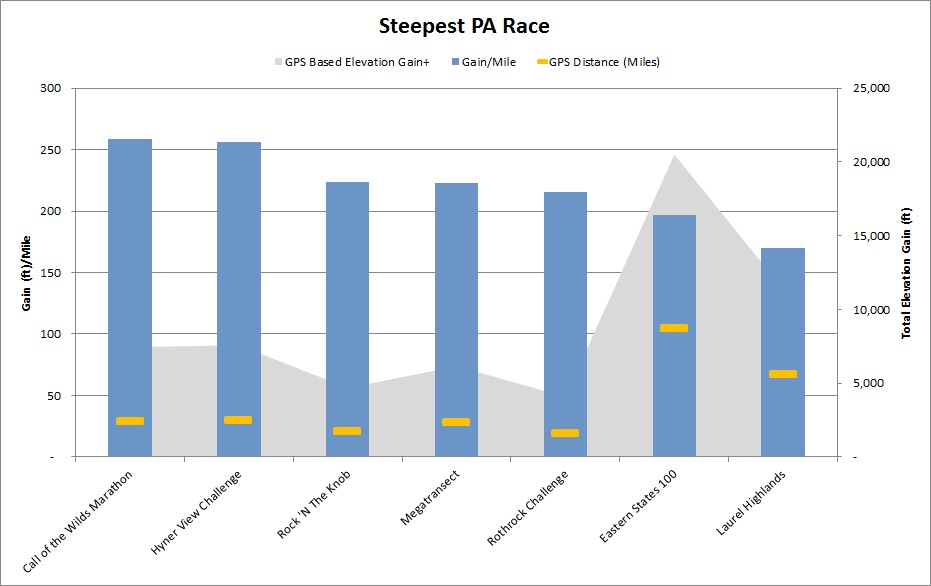
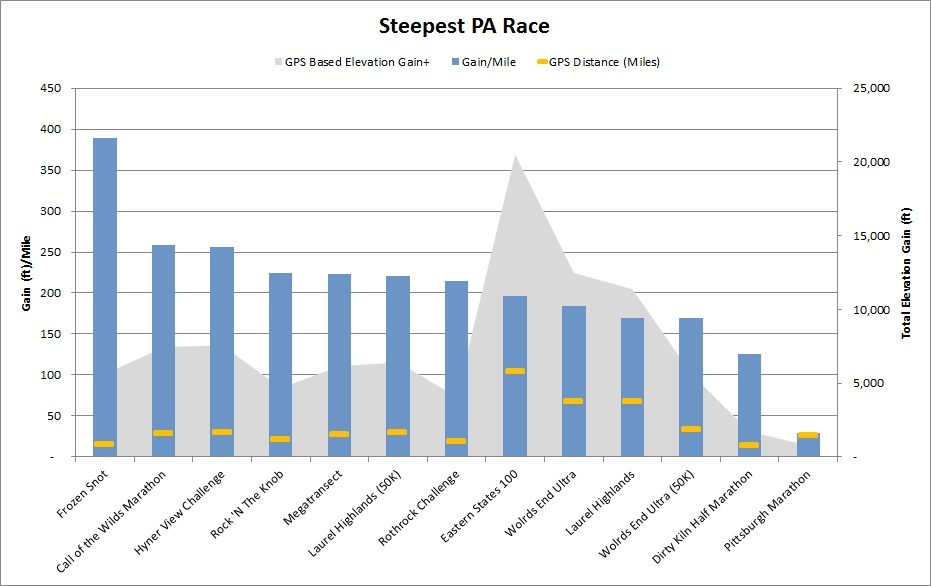
Updated SteepestPA Post

diff --git a/public/post/SteepestRacePA/index.html b/public/post/SteepestRacePA/index.html
@@ -145,7 +145,7 @@ I have attempted to answer a piece of that puzzle.</p>
 <h3 id="the-races-with-hills:e821d7f6a85bcd0c723ada71edb79d57">The Races With Hills</h3>
 
 <blockquote>
-<p><strong>It&rsquo;s a hill - get over it!</strong></p>
+<p><em>It&rsquo;s a hill - get over it!</em></p>
 </blockquote>
 
 <p>In my time here in Pennsylvania, I&rsquo;ve heard the names of different
@@ -157,7 +157,8 @@ estimated elevation gain, and even if it does, you can&rsquo;t always
 trust it (I&rsquo;m looking at you Rock&rsquo;N The Knob). You also can&rsquo;t trust the
 advertised miles - actually, nor the ruuners&hellip; well,
 especially the runners that like to challenge themselves and
-add extra off-course miles (I do this quite often&hellip; some people call it getting lost).</p>
+add extra off-course miles (I do this quite often&hellip; some people call it getting lost).
+To assist with accuracy, I gathered together GPS data for the different races.</p>
 
 <p>I put together a small list of &ldquo;challening&rdquo; races
 and pulled out their elevation gain in feet and divided
@@ -175,6 +176,17 @@ it by the total miles of the race, based on data recorded from racers.</p>
 <li>Rothrock Challenge</li>
 </ul>
 
+<p><em>ADDED</em></p>
+
+<ul>
+<li>Frozen Snot</li>
+<li>Laurel Highlands (50K)</li>
+<li>Worlds End Ultra</li>
+<li>Worlds End Ultra (50K)</li>
+<li>Dirty Kiln Half Marathon</li>
+<li>Pittsburgh Marathon</li>
+</ul>
+
 <p>Hopefully I can update/add to this list as I do more research and get more suggestions.</p>
 
 <h3 id="results:e821d7f6a85bcd0c723ada71edb79d57">Results</h3>
@@ -182,13 +194,17 @@ it by the total miles of the race, based on data recorded from racers.</p>
 <p><img src="/images/SteepPA/SteepestPARace.jpg" alt="Graph of vertical gain (ft) per mile" />
 </p>
 
-<p>By purely looking at numbers, the Wilds Marathon has the most vertical gain per mile at 258 ft/mile,
+<p>By purely looking at numbers, the Frozen Snot is by far the steepest race with 389 ft/mile.
+What makes that race even more of a challenge is the fact that it&rsquo;s held at the end of
+January. Aside from that, the Wilds Marathon has the second most vertical gain per mile at 258 ft/mile,
 with the Hyner View Challenge (50K) coming in closely behind it at 256 ft/mile.</p>
 
 <p>Below you can see for yourself, all the numbers that went into the graph above.</p>
 
 <p><img src="/images/SteepPA/RaceData.jpg" alt="Race data" />
 </p>
+
+<p>I decided to add in the Pittsburgh Marathon for reference on how a &ldquo;hilly&rdquo; road race compares.</p>
 
 <h3 id="data:e821d7f6a85bcd0c723ada71edb79d57">Data</h3>
 
@@ -207,24 +223,30 @@ but finding the data was hard).</p>
 
 <p>The distance category for the race should be obvious,
 that&rsquo;s where you know the distance you&rsquo;re signing up for&hellip;
-roughly. In reality you&rsquo;re the Eastern States, it may depend
-on how lost you get, whereas the Rothrock Challenge, it might
-be an extra challenge.</p>
+roughly.</p>
 
-<p>For the most part, the quoted distance is what was obtained.
-All races cannot guarantee you&rsquo;ll run the exact amount, and it
-may depend on the course you take. The one interesting result
+<p>For the most part, the reported distance is what was ran.
+The data used here was the GPS recorded distance. I compiled
+different racer&rsquo;s data, and averaged them together. I tried to
+ensure the GPS route followed the plotted course for the race,
+although this was more of a rough estimate. I also tried to make
+sure the distance made sense and that the runners finished the
+course.</p>
+
+<p>All races cannot guarantee you&rsquo;ll run the exact amount that was
+initially advertised though, and it may depend on the
+course you take (i.e. getting lost). The one interesting result
 was the Laurel Highlands coming in about 3 miles short. I haven&rsquo;t
 run the race, so I&rsquo;m not sure where the discrepancy would come in.
 Potentially, the uphill + downhill gains could make up the 3 miles.</p>
 
 <h5 id="elevation:e821d7f6a85bcd0c723ada71edb79d57">Elevation</h5>
 
-<p>This was the main data that I used for my thoughts here.
+<p>Elevation was the main data that I used for my thoughts here.
 Elevation is a tricky thing. I won&rsquo;t go into the details, but
 <a href="http://regex.info/blog/2015-05-09/2568">Jeff Friedl</a> blogged about
-how Strava may inflate their elevation numbers. It&rsquo;s very difficult to
-tell, and quite honestly, I used Strava for 95% of what I did here,
+how Strava may inflate/overestimate their elevation numbers. It&rsquo;s very difficult to
+tell, and quite honestly, I used Strava for 95% of my data,
 so at least they&rsquo;re all consistently inflated (hopefully).</p>
 
 <p>I, again, used the same method of just pulling different
@@ -310,6 +332,9 @@ each one to determine which is the most challenging for yourself!</p>
     <script type="text/javascript" src="http://localhost:1313/js/jquery.fitvids.js"></script>
     <script type="text/javascript" src="http://localhost:1313/js/index.js"></script>
 
-</body>
+<script>document.write('<script src="http://'
+        + (location.host || 'localhost').split(':')[0]
+		+ ':1313/livereload.js?mindelay=10"></'
+        + 'script>')</script></body>
 </html>
 

diff --git a/public/about/index.html b/public/about/index.html
@@ -208,6 +208,9 @@ I have begun running ultramarathons, but am still fairly new to the scene.</p>
     <script type="text/javascript" src="http://localhost:1313/js/jquery.fitvids.js"></script>
     <script type="text/javascript" src="http://localhost:1313/js/index.js"></script>
 
-</body>
+<script>document.write('<script src="http://'
+        + (location.host || 'localhost').split(':')[0]
+		+ ':1313/livereload.js?mindelay=10"></'
+        + 'script>')</script></body>
 </html>
 

diff --git a/public/post/bloggingwithhugo/index.html b/public/post/bloggingwithhugo/index.html
@@ -231,6 +231,9 @@ to serve.</p>
     <script type="text/javascript" src="http://localhost:1313/js/jquery.fitvids.js"></script>
     <script type="text/javascript" src="http://localhost:1313/js/index.js"></script>
 
-</body>
+<script>document.write('<script src="http://'
+        + (location.host || 'localhost').split(':')[0]
+		+ ':1313/livereload.js?mindelay=10"></'
+        + 'script>')</script></body>
 </html>
 

diff --git a/public/index.html b/public/index.html
@@ -224,5 +224,8 @@
     <script type="text/javascript" src="http://localhost:1313/js/jquery.fitvids.js"></script>
     <script type="text/javascript" src="http://localhost:1313/js/index.js"></script>
 
-</body>
+<script>document.write('<script src="http://'
+        + (location.host || 'localhost').split(':')[0]
+		+ ':1313/livereload.js?mindelay=10"></'
+        + 'script>')</script></body>
 </html>

diff --git a/public/post/index.html b/public/post/index.html
@@ -195,5 +195,8 @@
     <script type="text/javascript" src="http://localhost:1313/js/jquery.fitvids.js"></script>
     <script type="text/javascript" src="http://localhost:1313/js/index.js"></script>
 
-</body>
+<script>document.write('<script src="http://'
+        + (location.host || 'localhost').split(':')[0]
+		+ ':1313/livereload.js?mindelay=10"></'
+        + 'script>')</script></body>
 </html>

diff --git a/public/tags/blog/index.html b/public/tags/blog/index.html
@@ -165,5 +165,8 @@
     <script type="text/javascript" src="http://localhost:1313/js/jquery.fitvids.js"></script>
     <script type="text/javascript" src="http://localhost:1313/js/index.js"></script>
 
-</body>
+<script>document.write('<script src="http://'
+        + (location.host || 'localhost').split(':')[0]
+		+ ':1313/livereload.js?mindelay=10"></'
+        + 'script>')</script></body>
 </html>

diff --git a/public/tags/data/index.html b/public/tags/data/index.html
@@ -165,5 +165,8 @@
     <script type="text/javascript" src="http://localhost:1313/js/jquery.fitvids.js"></script>
     <script type="text/javascript" src="http://localhost:1313/js/index.js"></script>
 
-</body>
+<script>document.write('<script src="http://'
+        + (location.host || 'localhost').split(':')[0]
+		+ ':1313/livereload.js?mindelay=10"></'
+        + 'script>')</script></body>
 </html>

diff --git a/public/tags/design/index.html b/public/tags/design/index.html
@@ -165,5 +165,8 @@
     <script type="text/javascript" src="http://localhost:1313/js/jquery.fitvids.js"></script>
     <script type="text/javascript" src="http://localhost:1313/js/index.js"></script>
 
-</body>
+<script>document.write('<script src="http://'
+        + (location.host || 'localhost').split(':')[0]
+		+ ':1313/livereload.js?mindelay=10"></'
+        + 'script>')</script></body>
 </html>

diff --git a/public/tags/trail-races/index.html b/public/tags/trail-races/index.html
@@ -165,5 +165,8 @@
     <script type="text/javascript" src="http://localhost:1313/js/jquery.fitvids.js"></script>
     <script type="text/javascript" src="http://localhost:1313/js/index.js"></script>
 
-</body>
+<script>document.write('<script src="http://'
+        + (location.host || 'localhost').split(':')[0]
+		+ ':1313/livereload.js?mindelay=10"></'
+        + 'script>')</script></body>
 </html>

diff --git a/public/topics/running/index.html b/public/topics/running/index.html
@@ -165,5 +165,8 @@
     <script type="text/javascript" src="http://localhost:1313/js/jquery.fitvids.js"></script>
     <script type="text/javascript" src="http://localhost:1313/js/index.js"></script>
 
-</body>
+<script>document.write('<script src="http://'
+        + (location.host || 'localhost').split(':')[0]
+		+ ':1313/livereload.js?mindelay=10"></'
+        + 'script>')</script></body>
 </html>

diff --git a/content/post/SteepestRacePA.md b/content/post/SteepestRacePA.md
@@ -40,6 +40,7 @@ trust it (I'm looking at you Rock'N The Knob). You also can't trust the
 advertised miles - actually, nor the ruuners... well, 
 especially the runners that like to challenge themselves and 
 add extra off-course miles (I do this quite often... some people call it getting lost).
+To assist with accuracy, I gathered together GPS data for the different races.
 
 I put together a small list of "challening" races
 and pulled out their elevation gain in feet and divided
@@ -54,6 +55,15 @@ So far the races are as follows (in alphabetical order):
  - Megatransect
  - Rock'N the Knob
  - Rothrock Challenge
+ 
+ *ADDED*
+ 
+ - Frozen Snot
+ - Laurel Highlands (50K)
+ - Worlds End Ultra
+ - Worlds End Ultra (50K)
+ - Dirty Kiln Half Marathon
+ - Pittsburgh Marathon
 
 Hopefully I can update/add to this list as I do more research and get more suggestions.
 
@@ -61,12 +71,17 @@ Hopefully I can update/add to this list as I do more research and get more sugge
 
 ![Graph of vertical gain (ft) per mile](/images/SteepPA/SteepestPARace.jpg)
 
-By purely looking at numbers, the Wilds Marathon has the most vertical gain per mile at 258 ft/mile, 
+By purely looking at numbers, the Frozen Snot is by far the steepest race with 389 ft/mile.
+What makes that race even more of a challenge is the fact that it's held at the end of
+January. Aside from that, the Wilds Marathon has the second most vertical gain per mile at 258 ft/mile, 
 with the Hyner View Challenge (50K) coming in closely behind it at 256 ft/mile.
+
 
 Below you can see for yourself, all the numbers that went into the graph above.
 
 ![Race data](/images/SteepPA/RaceData.jpg)
+
+I decided to add in the Pittsburgh Marathon for reference on how a "hilly" road race compares.
 
 ### Data
 Since the crux of what I'm saying relies on data that I put together, 
